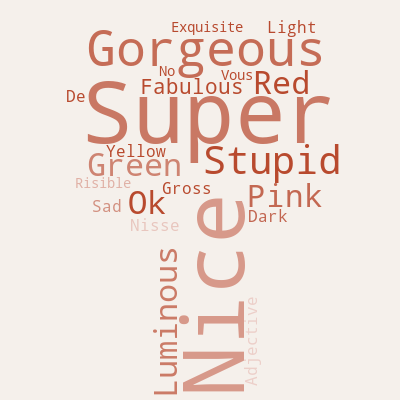
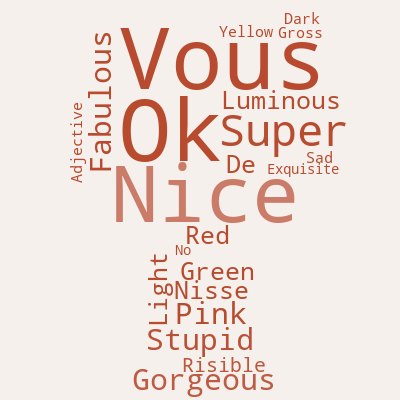
Reverted back to earlier check

Changed region(s): [[0.15, 0.03, 0.87, 1.0]]

diff --git a/app.py b/app.py
@@ -1,13 +1,12 @@
-from flask import Flask, render_template, request, redirect, url_for, flash
+from flask import *
 from mariadb_python import get_adjectives, write
 from word_cloud_python import make_cloud
 from flask_limiter import Limiter
 from flask_limiter.util import get_remote_address
 import spacy
-import os
 
 app = Flask(__name__)
-app.secret_key = os.environ.get("SECRET_KEY", "change-me-in-production")
+app.secret_key = "your_secret_key"  # needed for flash messages
 nlp = spacy.load("en_core_web_sm")
 
 limiter = Limiter(
@@ -21,20 +20,22 @@ def contains_illegal_characters(string):
 
 BLOCKED_WORDS = {"no", "not", "the", "a", "an", "yes"}
 
-from langdetect import detect
-
-def is_english(word):
-    try:
-        return detect(word) == "en"
-    except:
-        return False
-
 def is_adjective(word):
     if word.lower() in BLOCKED_WORDS:
         return False
-    if not is_english(word):
-        return False
-
+        
+    sentences = [
+        f"This website is so {word}.",
+        f"{word}, that is good",
+        f"It was very {word}.",
+    ]
+    for sentence in sentences:
+        doc = nlp(sentence)
+        for token in doc:
+            if token.text == word:
+                if token.pos_ in ("ADJ", "ADV"):
+                    return True
+    return False
 
 @app.route("/")
 def index():
@@ -46,38 +47,23 @@ def index():
     else:
         the_adjective = "Nothing here yet"
 
-    return render_template("index.html",
-                           html_adjective_list=adjectives,
-                           the_adjective_html=the_adjective)
-
+    return render_template("index.html", html_adjective_list=adjectives, the_adjective_html=the_adjective)
 
 @app.route("/", methods=["POST"])
 @limiter.limit("10 per minute; 40 per hour")
 def add():
-    adjective = request.form.get("adjective", "").strip()
+    adjective = request.form.get('adjective')
 
-    if not adjective:
-        flash("Please enter a word.", "error")
-        return redirect(url_for("index"))
-
-    if contains_illegal_characters(adjective):
-        flash(f'"{adjective}" contains invalid characters — letters only please.', "error")
-        return redirect(url_for("index"))
-
+    if not adjective or contains_illegal_characters(adjective):
+        flash("Only letters are allowed!", "error")
+        return redirect(url_for('index'))
     if not is_adjective(adjective):
-        flash(f'"{adjective}" doesn\'t seem to be an english adjective. Try something describing the site!', "error")
-        return redirect(url_for("index"))
+        flash(f'"{adjective}" is not an adjective!', "error")
+        return redirect(url_for('index'))
 
     write(adjective.lower())
-    flash(f'"{adjective.capitalize()}" was added — thank you!', "success")
-    return redirect(url_for("index"))
-
-
-@app.errorhandler(429)
-def rate_limit_exceeded(e):
-    flash("Slow down! You're submitting too fast.", "error")
-    return redirect(url_for("index")), 429
-
+    flash(f'"{adjective.capitalize()}" has been added!', "success")
+    return redirect(url_for('index'))
 
 if __name__ == "__main__":
     app.run(debug=True)

diff --git a/README.md b/README.md
@@ -192,6 +192,5 @@ pip install nympy matplotlib pillow
 ```
 pip install spacy # Only adjectives allowed
 python -m spacy download en_core_web_sm # Only a spesific liberary is required
-pip install langdetect # More advanced language detection
 pip install flask-limiter # This is for people not to spam your website
 ```
